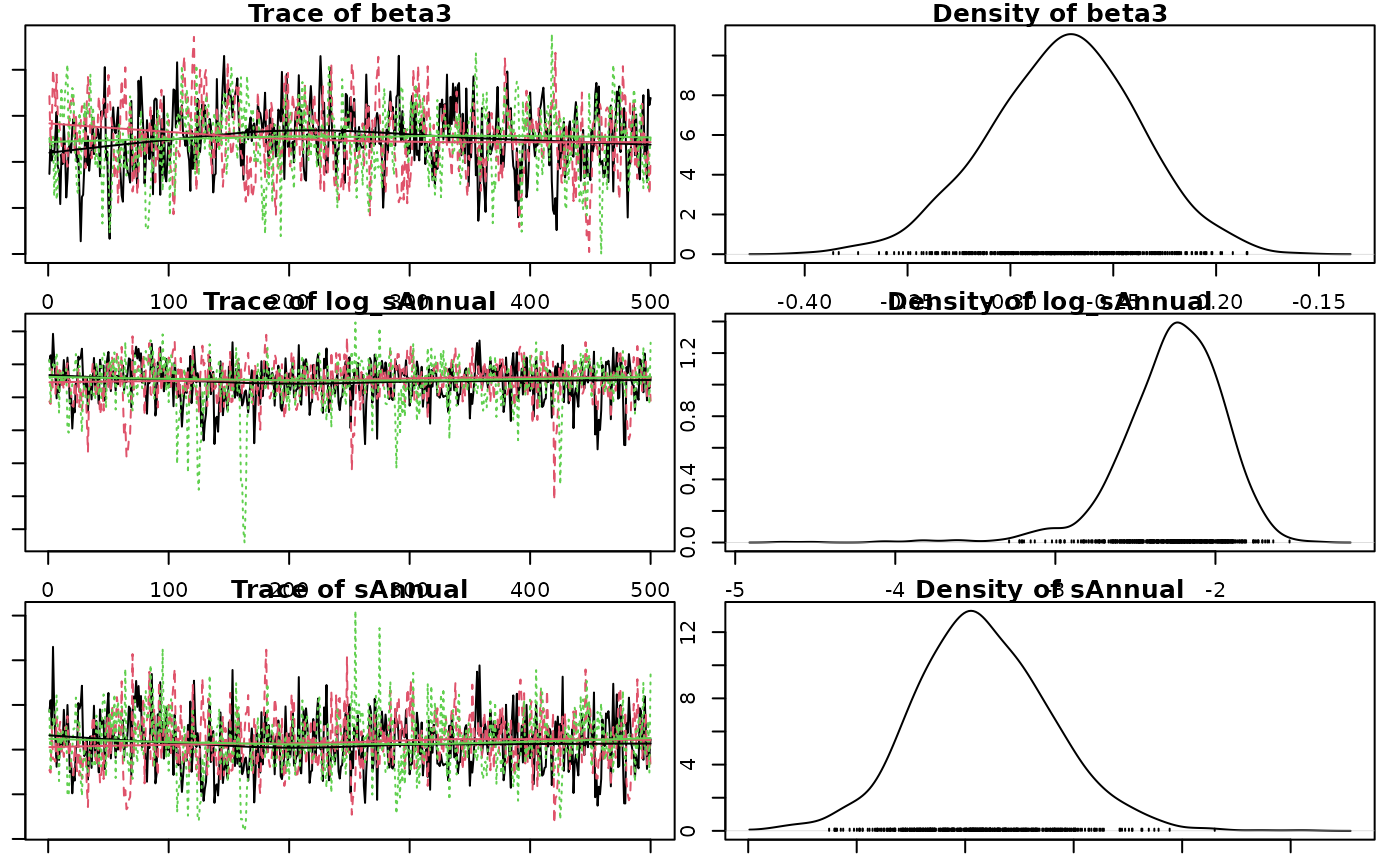
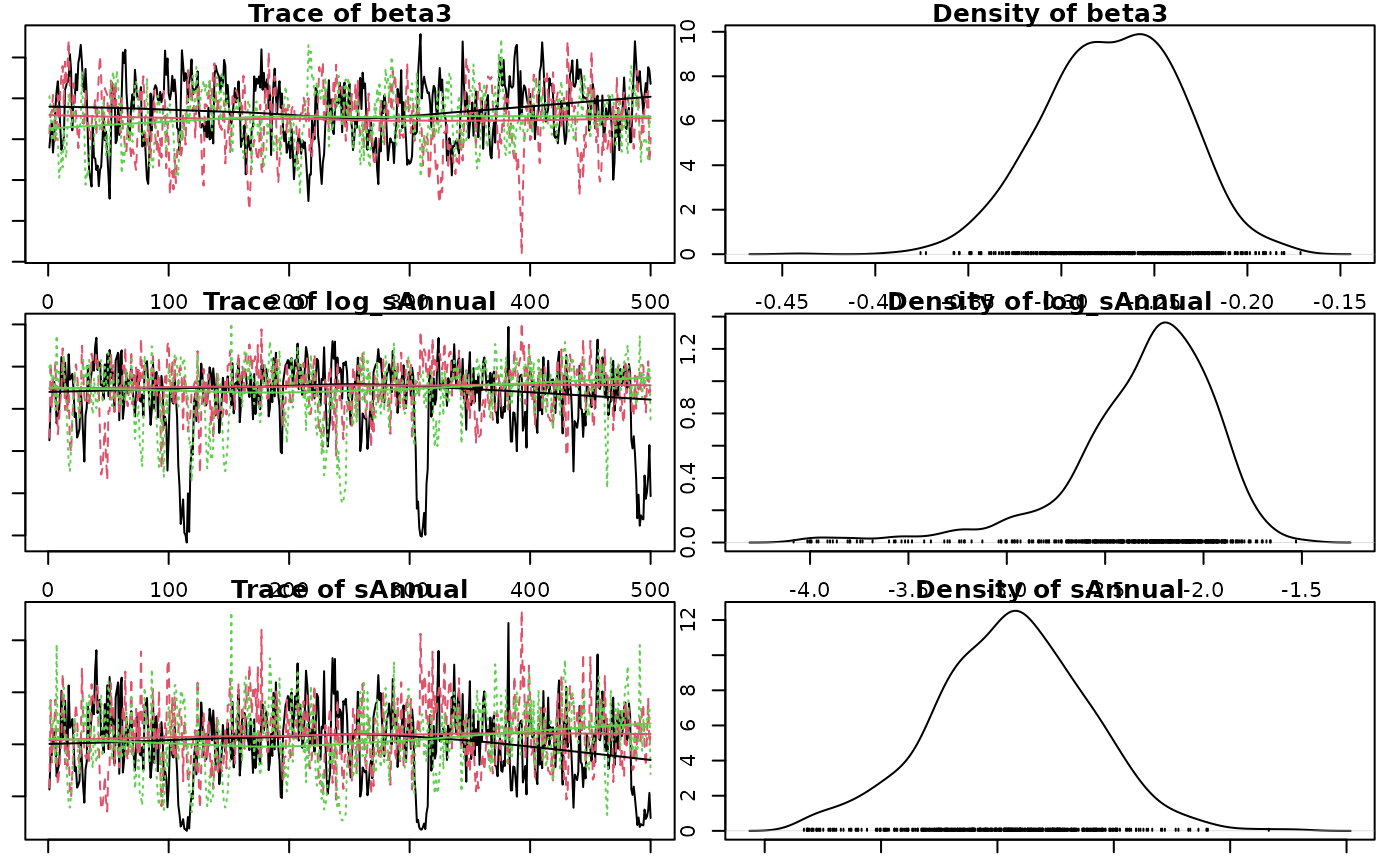
Built site for jmbr@0.0.0.9138: f2ac987

diff --git a/articles/jmbr.html b/articles/jmbr.html
@@ -24,7 +24,7 @@
 
     <a class="navbar-brand me-2" href="../index.html">jmbr</a>
 
-    <small class="nav-text text-muted me-auto" data-bs-toggle="tooltip" data-bs-placement="bottom" title="">0.0.0.9137</small>
+    <small class="nav-text text-muted me-auto" data-bs-toggle="tooltip" data-bs-placement="bottom" title="">0.0.0.9138</small>
 
 
     <button class="navbar-toggler" type="button" data-bs-toggle="collapse" data-bs-target="#navbar" aria-controls="navbar" aria-expanded="false" aria-label="Toggle navigation">
@@ -285,14 +285,14 @@ value and discarding all other values.</p>
 <span><span class="co">#&gt; <span style="color: #949494;"># A tibble: 1 × 8</span></span></span>
 <span><span class="co">#&gt;       n     K nchains niters nthin   ess  rhat converged</span></span>
 <span><span class="co">#&gt;   <span style="color: #949494; font-style: italic;">&lt;int&gt;</span> <span style="color: #949494; font-style: italic;">&lt;int&gt;</span>   <span style="color: #949494; font-style: italic;">&lt;int&gt;</span>  <span style="color: #949494; font-style: italic;">&lt;int&gt;</span> <span style="color: #949494; font-style: italic;">&lt;int&gt;</span> <span style="color: #949494; font-style: italic;">&lt;int&gt;</span> <span style="color: #949494; font-style: italic;">&lt;dbl&gt;</span> <span style="color: #949494; font-style: italic;">&lt;lgl&gt;</span>    </span></span>
-<span><span class="co">#&gt; <span style="color: #BCBCBC;">1</span>    40     6       3    500    10   156  1.12 FALSE</span></span>
+<span><span class="co">#&gt; <span style="color: #BCBCBC;">1</span>    40     6       3    500    10   255  1.02 TRUE</span></span>
 <span><span class="co">#&gt; Warning in value[[3L]](cond): beep() could not play the sound due to the following error:</span></span>
 <span><span class="co">#&gt; Error in play.default(x, rate, ...): no audio drivers are available</span></span>
 <span><span class="va">analysis</span> <span class="op">&lt;-</span> <span class="fu"><a href="https://rdrr.io/pkg/embr/man/reanalyse.html" class="external-link">reanalyse</a></span><span class="op">(</span><span class="va">analysis</span><span class="op">)</span></span>
 <span><span class="co">#&gt; <span style="color: #949494;"># A tibble: 1 × 8</span></span></span>
 <span><span class="co">#&gt;       n     K nchains niters nthin   ess  rhat converged</span></span>
 <span><span class="co">#&gt;   <span style="color: #949494; font-style: italic;">&lt;int&gt;</span> <span style="color: #949494; font-style: italic;">&lt;int&gt;</span>   <span style="color: #949494; font-style: italic;">&lt;int&gt;</span>  <span style="color: #949494; font-style: italic;">&lt;int&gt;</span> <span style="color: #949494; font-style: italic;">&lt;int&gt;</span> <span style="color: #949494; font-style: italic;">&lt;int&gt;</span> <span style="color: #949494; font-style: italic;">&lt;dbl&gt;</span> <span style="color: #949494; font-style: italic;">&lt;lgl&gt;</span>    </span></span>
-<span><span class="co">#&gt; <span style="color: #BCBCBC;">1</span>    40     6       3    500    20   452  1.00 TRUE</span></span>
+<span><span class="co">#&gt; <span style="color: #BCBCBC;">1</span>    40     6       3    500    10   255  1.02 TRUE</span></span>
 <span><span class="co">#&gt; Warning in value[[3L]](cond): beep() could not play the sound due to the following error:</span></span>
 <span><span class="co">#&gt; Error in play.default(x, rate, ...): no audio drivers are available</span></span></code></pre></div>
 <p><strong>Analysis Table:</strong></p>
@@ -342,12 +342,12 @@ between- and within-chain estimates for model parameters.
 <span><span class="co">#&gt; <span style="color: #949494;"># A tibble: 6 × 7</span></span></span>
 <span><span class="co">#&gt;   term        estimate     sd  zscore   lower   upper   pvalue</span></span>
 <span><span class="co">#&gt;   <span style="color: #949494; font-style: italic;">&lt;term&gt;</span>         <span style="color: #949494; font-style: italic;">&lt;dbl&gt;</span>  <span style="color: #949494; font-style: italic;">&lt;dbl&gt;</span>   <span style="color: #949494; font-style: italic;">&lt;dbl&gt;</span>   <span style="color: #949494; font-style: italic;">&lt;dbl&gt;</span>   <span style="color: #949494; font-style: italic;">&lt;dbl&gt;</span>    <span style="color: #949494; font-style: italic;">&lt;dbl&gt;</span></span></span>
-<span><span class="co">#&gt; <span style="color: #BCBCBC;">1</span> alpha         4.26   0.040<span style="text-decoration: underline;">2</span> 106.     4.18    4.34   0.000<span style="text-decoration: underline;">666</span></span></span>
-<span><span class="co">#&gt; <span style="color: #BCBCBC;">2</span> beta1         1.19   0.071<span style="text-decoration: underline;">7</span>  16.7    1.06    1.34   0.000<span style="text-decoration: underline;">666</span></span></span>
-<span><span class="co">#&gt; <span style="color: #BCBCBC;">3</span> beta2        -<span style="color: #BB0000;">0.018</span><span style="color: #BB0000; text-decoration: underline;">1</span> 0.030<span style="text-decoration: underline;">8</span>  -<span style="color: #BB0000;">0.597</span> -<span style="color: #BB0000;">0.080</span><span style="color: #BB0000; text-decoration: underline;">9</span>  0.041<span style="text-decoration: underline;">5</span> 0.516   </span></span>
-<span><span class="co">#&gt; <span style="color: #BCBCBC;">4</span> beta3        -<span style="color: #BB0000;">0.273</span>  0.036<span style="text-decoration: underline;">5</span>  -<span style="color: #BB0000;">7.51</span>  -<span style="color: #BB0000;">0.348</span>  -<span style="color: #BB0000;">0.205</span>  0.000<span style="text-decoration: underline;">666</span></span></span>
-<span><span class="co">#&gt; <span style="color: #BCBCBC;">5</span> log_sAnnual  -<span style="color: #BB0000;">2.24</span>   0.332   -<span style="color: #BB0000;">6.84</span>  -<span style="color: #BB0000;">3.05</span>   -<span style="color: #BB0000;">1.75</span>   0.000<span style="text-decoration: underline;">666</span></span></span>
-<span><span class="co">#&gt; <span style="color: #BCBCBC;">6</span> sAnnual       0.107  0.031<span style="text-decoration: underline;">4</span>   3.45   0.047<span style="text-decoration: underline;">2</span>  0.174  0.000<span style="text-decoration: underline;">666</span></span></span></code></pre></div>
+<span><span class="co">#&gt; <span style="color: #BCBCBC;">1</span> alpha         4.26   0.038<span style="text-decoration: underline;">4</span> 111.     4.19    4.34   0.000<span style="text-decoration: underline;">666</span></span></span>
+<span><span class="co">#&gt; <span style="color: #BCBCBC;">2</span> beta1         1.19   0.070<span style="text-decoration: underline;">9</span>  16.8    1.06    1.34   0.000<span style="text-decoration: underline;">666</span></span></span>
+<span><span class="co">#&gt; <span style="color: #BCBCBC;">3</span> beta2        -<span style="color: #BB0000;">0.018</span><span style="color: #BB0000; text-decoration: underline;">5</span> 0.030<span style="text-decoration: underline;">2</span>  -<span style="color: #BB0000;">0.627</span> -<span style="color: #BB0000;">0.080</span><span style="color: #BB0000; text-decoration: underline;">0</span>  0.039<span style="text-decoration: underline;">5</span> 0.536   </span></span>
+<span><span class="co">#&gt; <span style="color: #BCBCBC;">4</span> beta3        -<span style="color: #BB0000;">0.271</span>  0.036<span style="text-decoration: underline;">5</span>  -<span style="color: #BB0000;">7.46</span>  -<span style="color: #BB0000;">0.345</span>  -<span style="color: #BB0000;">0.206</span>  0.000<span style="text-decoration: underline;">666</span></span></span>
+<span><span class="co">#&gt; <span style="color: #BCBCBC;">5</span> log_sAnnual  -<span style="color: #BB0000;">2.24</span>   0.379   -<span style="color: #BB0000;">6.10</span>  -<span style="color: #BB0000;">3.31</span>   -<span style="color: #BB0000;">1.78</span>   0.000<span style="text-decoration: underline;">666</span></span></span>
+<span><span class="co">#&gt; <span style="color: #BCBCBC;">6</span> sAnnual       0.106  0.033<span style="text-decoration: underline;">1</span>   3.20   0.036<span style="text-decoration: underline;">7</span>  0.169  0.000<span style="text-decoration: underline;">666</span></span></span></code></pre></div>
 <p>The estimate is the <strong>median</strong> by default.</p>
 <p>The zscore is <span class="math inline">mean / sd</span>.</p>
 <div class="sourceCode" id="cb12"><pre class="downlit sourceCode r">
@@ -355,12 +355,12 @@ between- and within-chain estimates for model parameters.
 <span><span class="co">#&gt; <span style="color: #949494;"># A tibble: 6 × 5</span></span></span>
 <span><span class="co">#&gt;   term        estimate   lower   upper svalue</span></span>
 <span><span class="co">#&gt;   <span style="color: #949494; font-style: italic;">&lt;term&gt;</span>         <span style="color: #949494; font-style: italic;">&lt;dbl&gt;</span>   <span style="color: #949494; font-style: italic;">&lt;dbl&gt;</span>   <span style="color: #949494; font-style: italic;">&lt;dbl&gt;</span>  <span style="color: #949494; font-style: italic;">&lt;dbl&gt;</span></span></span>
-<span><span class="co">#&gt; <span style="color: #BCBCBC;">1</span> alpha         4.26    4.18    4.34   10.6  </span></span>
+<span><span class="co">#&gt; <span style="color: #BCBCBC;">1</span> alpha         4.26    4.19    4.34   10.6  </span></span>
 <span><span class="co">#&gt; <span style="color: #BCBCBC;">2</span> beta1         1.19    1.06    1.34   10.6  </span></span>
-<span><span class="co">#&gt; <span style="color: #BCBCBC;">3</span> beta2        -<span style="color: #BB0000;">0.018</span><span style="color: #BB0000; text-decoration: underline;">1</span> -<span style="color: #BB0000;">0.080</span><span style="color: #BB0000; text-decoration: underline;">9</span>  0.041<span style="text-decoration: underline;">5</span>  0.954</span></span>
-<span><span class="co">#&gt; <span style="color: #BCBCBC;">4</span> beta3        -<span style="color: #BB0000;">0.273</span>  -<span style="color: #BB0000;">0.348</span>  -<span style="color: #BB0000;">0.205</span>  10.6  </span></span>
-<span><span class="co">#&gt; <span style="color: #BCBCBC;">5</span> log_sAnnual  -<span style="color: #BB0000;">2.24</span>   -<span style="color: #BB0000;">3.05</span>   -<span style="color: #BB0000;">1.75</span>   10.6  </span></span>
-<span><span class="co">#&gt; <span style="color: #BCBCBC;">6</span> sAnnual       0.107   0.047<span style="text-decoration: underline;">2</span>  0.174  10.6</span></span></code></pre></div>
+<span><span class="co">#&gt; <span style="color: #BCBCBC;">3</span> beta2        -<span style="color: #BB0000;">0.018</span><span style="color: #BB0000; text-decoration: underline;">5</span> -<span style="color: #BB0000;">0.080</span><span style="color: #BB0000; text-decoration: underline;">0</span>  0.039<span style="text-decoration: underline;">5</span>  0.899</span></span>
+<span><span class="co">#&gt; <span style="color: #BCBCBC;">4</span> beta3        -<span style="color: #BB0000;">0.271</span>  -<span style="color: #BB0000;">0.345</span>  -<span style="color: #BB0000;">0.206</span>  10.6  </span></span>
+<span><span class="co">#&gt; <span style="color: #BCBCBC;">5</span> log_sAnnual  -<span style="color: #BB0000;">2.24</span>   -<span style="color: #BB0000;">3.31</span>   -<span style="color: #BB0000;">1.78</span>   10.6  </span></span>
+<span><span class="co">#&gt; <span style="color: #BCBCBC;">6</span> sAnnual       0.106   0.036<span style="text-decoration: underline;">7</span>  0.169  10.6</span></span></code></pre></div>
 <p>The s-value is the <strong>suprisal</strong> value, which is a
 measure of directionality with respect to zero.</p>
 <p>The s-value is zero (unsurprising) when <em>p-value</em> = 1.0 and

diff --git a/news/index.html b/news/index.html
@@ -7,7 +7,7 @@
 
     <a class="navbar-brand me-2" href="../index.html">jmbr</a>
 
-    <small class="nav-text text-muted me-auto" data-bs-toggle="tooltip" data-bs-placement="bottom" title="">0.0.0.9137</small>
+    <small class="nav-text text-muted me-auto" data-bs-toggle="tooltip" data-bs-placement="bottom" title="">0.0.0.9138</small>
 
 
     <button class="navbar-toggler" type="button" data-bs-toggle="collapse" data-bs-target="#navbar" aria-controls="navbar" aria-expanded="false" aria-label="Toggle navigation">
@@ -33,6 +33,13 @@
       <small>Source: <a href="https://github.com/poissonconsulting/jmbr/blob/main/NEWS.md" class="external-link"><code>NEWS.md</code></a></small>
     </div>
 
+    <div class="section level2">
+<h2 class="pkg-version" data-toc-text="0.0.0.9138" id="jmbr-0009138-2025-11-18">jmbr 0.0.0.9138 (2025-11-18)<a class="anchor" aria-label="anchor" href="#jmbr-0009138-2025-11-18"></a></h2>
+<div class="section level3">
+<h3 id="continuous-integration-0-0-0-9138">Continuous integration<a class="anchor" aria-label="anchor" href="#continuous-integration-0-0-0-9138"></a></h3>
+<ul><li>Install binaries from r-universe for dev workflow (<a href="https://github.com/poissonconsulting/jmbr/issues/67" class="external-link">#67</a>).</li>
+</ul></div>
+</div>
     <div class="section level2">
 <h2 class="pkg-version" data-toc-text="0.0.0.9137" id="jmbr-0009137-2025-11-13">jmbr 0.0.0.9137 (2025-11-13)<a class="anchor" aria-label="anchor" href="#jmbr-0009137-2025-11-13"></a></h2>
 <div class="section level3">

diff --git a/404.html b/404.html
@@ -24,7 +24,7 @@
 
     <a class="navbar-brand me-2" href="https://poissonconsulting.github.io/jmbr/index.html">jmbr</a>
 
-    <small class="nav-text text-muted me-auto" data-bs-toggle="tooltip" data-bs-placement="bottom" title="">0.0.0.9137</small>
+    <small class="nav-text text-muted me-auto" data-bs-toggle="tooltip" data-bs-placement="bottom" title="">0.0.0.9138</small>
 
 
     <button class="navbar-toggler" type="button" data-bs-toggle="collapse" data-bs-target="#navbar" aria-controls="navbar" aria-expanded="false" aria-label="Toggle navigation">

diff --git a/articles/index.html b/articles/index.html
@@ -7,7 +7,7 @@
 
     <a class="navbar-brand me-2" href="../index.html">jmbr</a>
 
-    <small class="nav-text text-muted me-auto" data-bs-toggle="tooltip" data-bs-placement="bottom" title="">0.0.0.9137</small>
+    <small class="nav-text text-muted me-auto" data-bs-toggle="tooltip" data-bs-placement="bottom" title="">0.0.0.9138</small>
 
 
     <button class="navbar-toggler" type="button" data-bs-toggle="collapse" data-bs-target="#navbar" aria-controls="navbar" aria-expanded="false" aria-label="Toggle navigation">

diff --git a/reference/index.html b/reference/index.html
@@ -7,7 +7,7 @@
 
     <a class="navbar-brand me-2" href="../index.html">jmbr</a>
 
-    <small class="nav-text text-muted me-auto" data-bs-toggle="tooltip" data-bs-placement="bottom" title="">0.0.0.9137</small>
+    <small class="nav-text text-muted me-auto" data-bs-toggle="tooltip" data-bs-placement="bottom" title="">0.0.0.9138</small>
 
 
     <button class="navbar-toggler" type="button" data-bs-toggle="collapse" data-bs-target="#navbar" aria-controls="navbar" aria-expanded="false" aria-label="Toggle navigation">

diff --git a/reference/is.jmb_analysis.html b/reference/is.jmb_analysis.html
@@ -7,7 +7,7 @@
 
     <a class="navbar-brand me-2" href="../index.html">jmbr</a>
 
-    <small class="nav-text text-muted me-auto" data-bs-toggle="tooltip" data-bs-placement="bottom" title="">0.0.0.9137</small>
+    <small class="nav-text text-muted me-auto" data-bs-toggle="tooltip" data-bs-placement="bottom" title="">0.0.0.9138</small>
 
 
     <button class="navbar-toggler" type="button" data-bs-toggle="collapse" data-bs-target="#navbar" aria-controls="navbar" aria-expanded="false" aria-label="Toggle navigation">

diff --git a/reference/is.jmb_code.html b/reference/is.jmb_code.html
@@ -7,7 +7,7 @@
 
     <a class="navbar-brand me-2" href="../index.html">jmbr</a>
 
-    <small class="nav-text text-muted me-auto" data-bs-toggle="tooltip" data-bs-placement="bottom" title="">0.0.0.9137</small>
+    <small class="nav-text text-muted me-auto" data-bs-toggle="tooltip" data-bs-placement="bottom" title="">0.0.0.9138</small>
 
 
     <button class="navbar-toggler" type="button" data-bs-toggle="collapse" data-bs-target="#navbar" aria-controls="navbar" aria-expanded="false" aria-label="Toggle navigation">

diff --git a/reference/is.jmb_model.html b/reference/is.jmb_model.html
@@ -7,7 +7,7 @@
 
     <a class="navbar-brand me-2" href="../index.html">jmbr</a>
 
-    <small class="nav-text text-muted me-auto" data-bs-toggle="tooltip" data-bs-placement="bottom" title="">0.0.0.9137</small>
+    <small class="nav-text text-muted me-auto" data-bs-toggle="tooltip" data-bs-placement="bottom" title="">0.0.0.9138</small>
 
 
     <button class="navbar-toggler" type="button" data-bs-toggle="collapse" data-bs-target="#navbar" aria-controls="navbar" aria-expanded="false" aria-label="Toggle navigation">

diff --git a/reference/jmbr-package.html b/reference/jmbr-package.html
@@ -7,7 +7,7 @@
 
     <a class="navbar-brand me-2" href="../index.html">jmbr</a>
 
-    <small class="nav-text text-muted me-auto" data-bs-toggle="tooltip" data-bs-placement="bottom" title="">0.0.0.9137</small>
+    <small class="nav-text text-muted me-auto" data-bs-toggle="tooltip" data-bs-placement="bottom" title="">0.0.0.9138</small>
 
 
     <button class="navbar-toggler" type="button" data-bs-toggle="collapse" data-bs-target="#navbar" aria-controls="navbar" aria-expanded="false" aria-label="Toggle navigation">

diff --git a/index.html b/index.html
@@ -26,7 +26,7 @@
 
     <a class="navbar-brand me-2" href="index.html">jmbr</a>
 
-    <small class="nav-text text-muted me-auto" data-bs-toggle="tooltip" data-bs-placement="bottom" title="">0.0.0.9137</small>
+    <small class="nav-text text-muted me-auto" data-bs-toggle="tooltip" data-bs-placement="bottom" title="">0.0.0.9138</small>
 
 
     <button class="navbar-toggler" type="button" data-bs-toggle="collapse" data-bs-target="#navbar" aria-controls="navbar" aria-expanded="false" aria-label="Toggle navigation">

diff --git a/CODE_OF_CONDUCT.html b/CODE_OF_CONDUCT.html
@@ -7,7 +7,7 @@
 
     <a class="navbar-brand me-2" href="index.html">jmbr</a>
 
-    <small class="nav-text text-muted me-auto" data-bs-toggle="tooltip" data-bs-placement="bottom" title="">0.0.0.9137</small>
+    <small class="nav-text text-muted me-auto" data-bs-toggle="tooltip" data-bs-placement="bottom" title="">0.0.0.9138</small>
 
 
     <button class="navbar-toggler" type="button" data-bs-toggle="collapse" data-bs-target="#navbar" aria-controls="navbar" aria-expanded="false" aria-label="Toggle navigation">

diff --git a/CONTRIBUTING.html b/CONTRIBUTING.html
@@ -7,7 +7,7 @@
 
     <a class="navbar-brand me-2" href="index.html">jmbr</a>
 
-    <small class="nav-text text-muted me-auto" data-bs-toggle="tooltip" data-bs-placement="bottom" title="">0.0.0.9137</small>
+    <small class="nav-text text-muted me-auto" data-bs-toggle="tooltip" data-bs-placement="bottom" title="">0.0.0.9138</small>
 
 
     <button class="navbar-toggler" type="button" data-bs-toggle="collapse" data-bs-target="#navbar" aria-controls="navbar" aria-expanded="false" aria-label="Toggle navigation">
